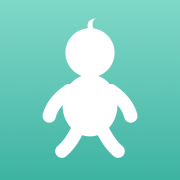
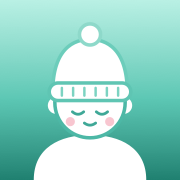
Icono: bebé con gorrito y degradado

diff --git a/index.html b/index.html
@@ -6,8 +6,8 @@
 <meta http-equiv="Cache-Control" content="no-cache, no-store, must-revalidate">
 <title>Visor UCI Neonatal</title>
 <link rel="stylesheet" href="visor.css?v=31">
-<link rel="apple-touch-icon" href="icono-180.png?v=1">
-<link rel="icon" type="image/png" href="icono-512.png?v=1">
+<link rel="apple-touch-icon" href="icono-180.png?v=2">
+<link rel="icon" type="image/png" href="icono-512.png?v=2">
 </head>
 <body>
 <div class="layout">
